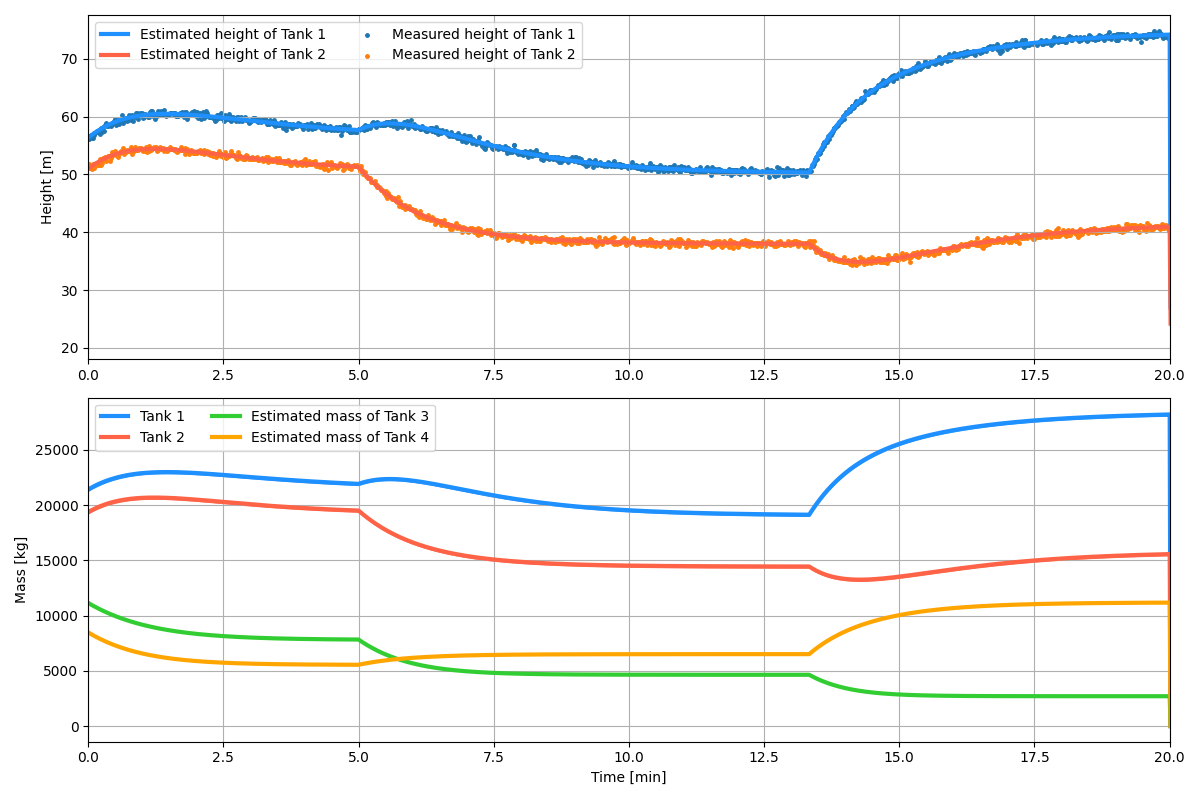
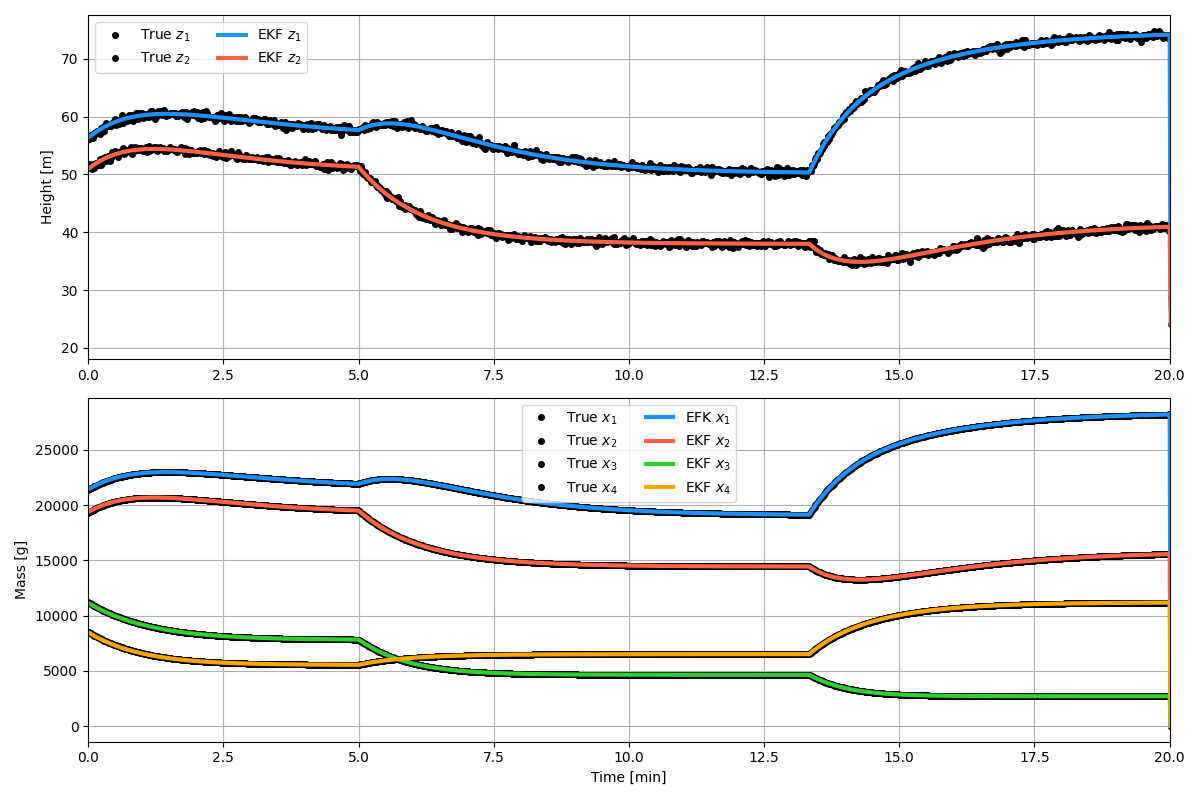
problem12

diff --git a/Problm_12.py b/Problm_12.py
@@ -11,6 +11,10 @@ std = pd.read_excel(
     r"C:\Users\maria\OneDrive - Danmarks Tekniske Universitet\Kandidat\4_semester\Model predictive control\MPC_2025\old_casadi\CasADi_framework_example\Problem12_2_EKF_Data.xlsx",
     sheet_name="EKF_Std"
 )
+true_states = pd.read_excel(
+    r"C:\Users\maria\OneDrive - Danmarks Tekniske Universitet\Kandidat\4_semester\Model predictive control\MPC_2025\old_casadi\CasADi_framework_example\Problem12_2_EKF_Data.xlsx",
+    sheet_name="True_States_Sampled"
+)
 
 std_x1 = std["std_x1"]+50
 std_x2 = std["std_x2"]+50
@@ -31,17 +35,24 @@ x2_hat = data["x2_hat_kg"]
 x3_hat = data["x3_hat_kg"]
 x4_hat = data["x4_hat_kg"]
 
+x1_true = true_states["x1_true_kg"]
+x2_true = true_states["x2_true_kg"]
+x3_true = true_states["x3_true_kg"]
+x4_true = true_states["x4_true_kg"]
+
 # ------------------- Plot ------------------- #
 plt.figure(figsize=(12, 8))
 
 # ---- Subplot 1: Outputs ----
 plt.subplot(2, 1, 1)
 
-plt.plot(time, z1_hat, color='dodgerblue', linewidth=3, label=r'Estimated height of Tank 1')
-plt.plot(time, z2_hat, color='tomato', linewidth=3, label=r'Estimated height of Tank 2')
 
-plt.scatter(time, y1, s=25, marker='.', label=r'Measured height of Tank 1')
-plt.scatter(time, y2, s=25, marker='.', label=r'Measured height of Tank 2')
+plt.plot(time, y1, 'k.', markersize=8, label=r'True $z_1$')
+plt.plot(time, y2, 'k.', markersize=8, label=r'True $z_2$')
+
+plt.plot(time, z1_hat, color='dodgerblue', linewidth=3, label=r'EKF $z_1$')
+plt.plot(time, z2_hat, color='tomato', linewidth=3, label=r'EKF $z_2$')
+
 
 plt.grid(True)
 plt.ylabel('Height [m]')
@@ -54,7 +65,11 @@ plt.subplot(2, 1, 2)
 
 plt.subplot(2, 1, 2)
 
-plt.plot(time, x1_hat, color='dodgerblue', linewidth=3, label='Tank 1')
+plt.plot(time, x1_true, 'k.', markersize=8, label=r'True $x_1$')
+plt.plot(time, x2_true, 'k.', markersize=8, label=r'True $x_2$')
+plt.plot(time, x3_true, 'k.', markersize=8, label=r'True $x_3$')
+plt.plot(time, x4_true, 'k.', markersize=8, label=r'True $x_4$')
+plt.plot(time, x1_hat, color='dodgerblue', linewidth=3, label=r'EFK $x_1$')
 plt.fill_between(
     time,
     x1_hat - 2*std_x1,
@@ -63,7 +78,7 @@ plt.fill_between(
     alpha=0.9
 )
 
-plt.plot(time, x2_hat, color='tomato', linewidth=3, label='Tank 2')
+plt.plot(time, x2_hat, color='tomato', linewidth=3, label=r'EKF $x_2$')
 plt.fill_between(
     time,
     x2_hat - 2*std_x2,
@@ -72,12 +87,13 @@ plt.fill_between(
     alpha=0.9
 )
 
-plt.plot(time, x3_hat, color='limegreen', linewidth=3, label=r'Estimated mass of Tank 3')
-plt.plot(time, x4_hat, color='orange', linewidth=3, label=r'Estimated mass of Tank 4')
+plt.plot(time, x3_hat, color='limegreen', linewidth=3, label=r'EKF $x_3$')
+plt.plot(time, x4_hat, color='orange', linewidth=3, label=r'EKF $x_4$')
+
 
 plt.grid(True)
 plt.xlabel('Time [min]')
-plt.ylabel('Mass [kg]')
+plt.ylabel('Mass [g]')
 plt.legend(ncol=2)
 plt.xlim(0, 20)
 

diff --git a/README.md b/README.md
@@ -27,6 +27,6 @@ Who is working on what porblems
 - [x] P2.3 Write
 - [x] P5
 - [x] P6
-- [ ] P12
+- [x] P12
 
 
